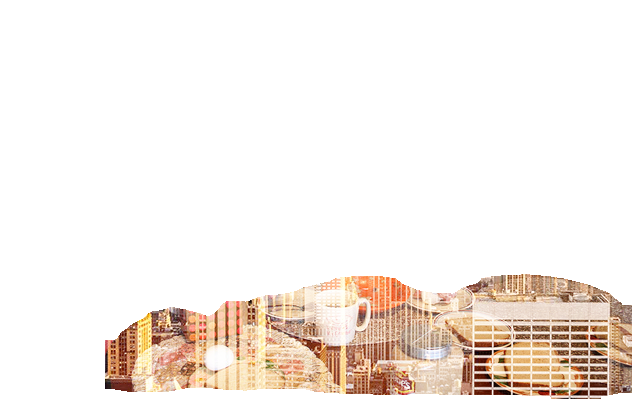
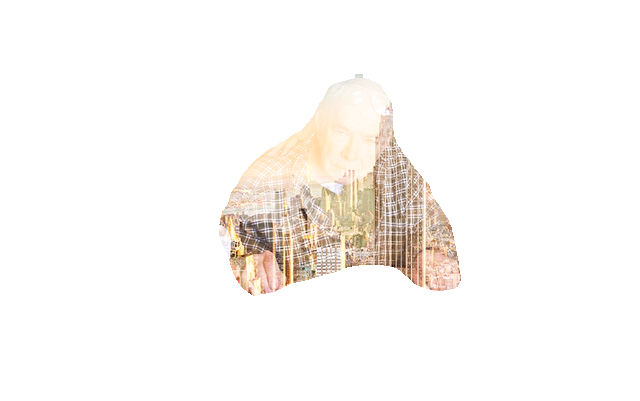
modified:   background_filter.png 	modified:   dbexpos_image.png 	modified:   plot.png 	modified:   visualize.py

diff --git a/visualize.py b/visualize.py
@@ -196,10 +196,10 @@ def display_instances(image, background, i, boxes, masks, class_ids, class_names
         background = background[0:height,0:width]
     else:
         background = np.array(background)/255    
-    #background = nosefilter(background,Leye_x,Leye_y,nose_x,nose_y)
-    #dbexpos_image = screen(masked_image,background)
-    #scipy.misc.toimage(background).save('background_filter.png')
-    #scipy.misc.toimage(dbexpos_image).save('dbexpos_image.png')
+    background = nosefilter(background,Leye_x,Leye_y,nose_x,nose_y,mouse_x,mouse_y)
+    dbexpos_image = screen(masked_image,background)
+    scipy.misc.toimage(background).save('background_filter.png')
+    scipy.misc.toimage(dbexpos_image).save('dbexpos_image.png')
 
 def screen(img_1,img_2):
     img_1 = img_1
